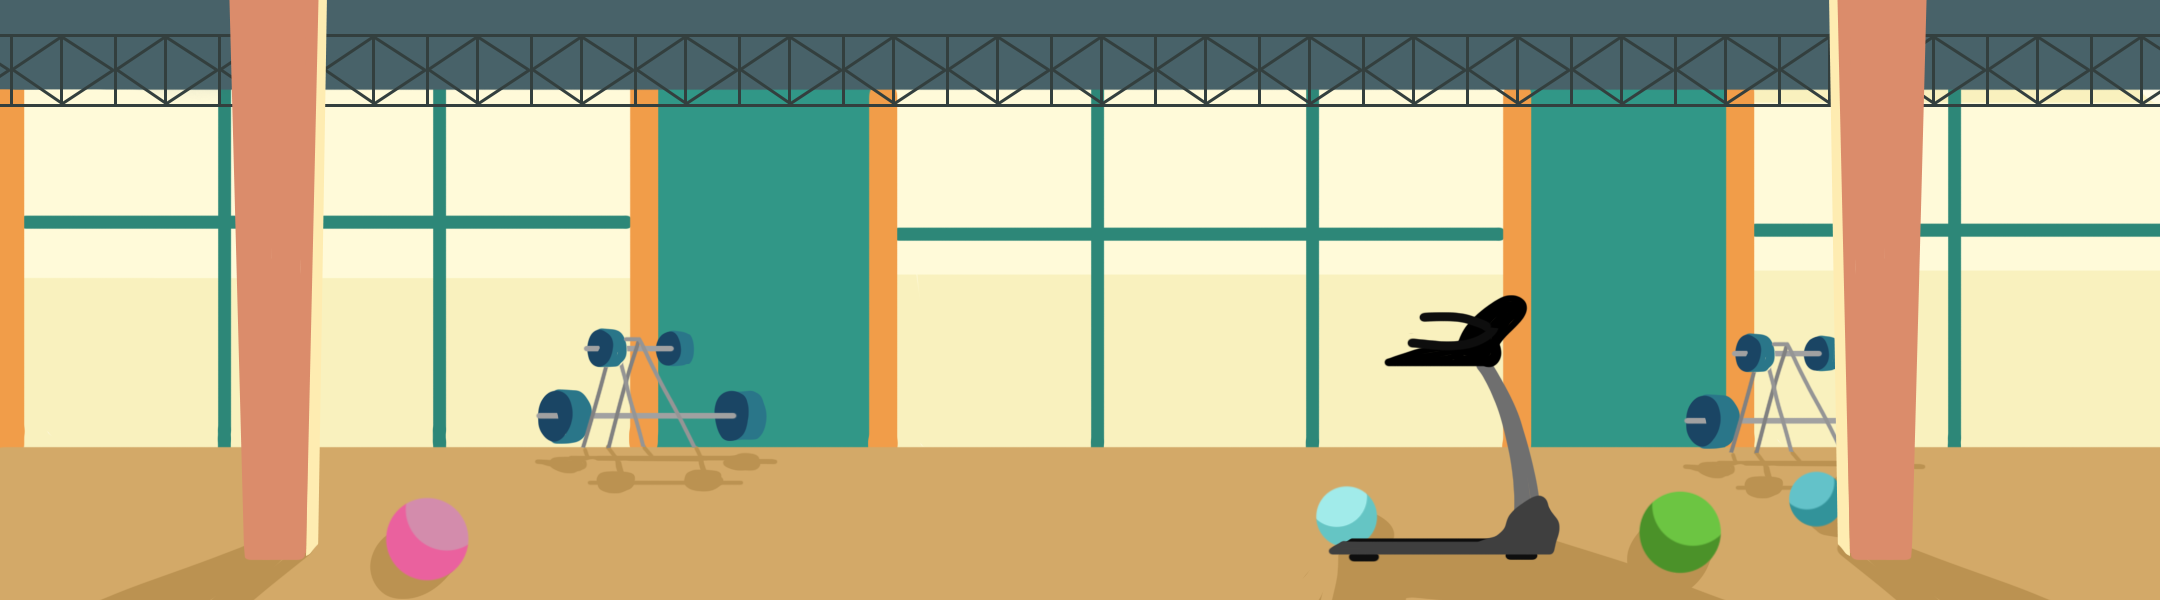
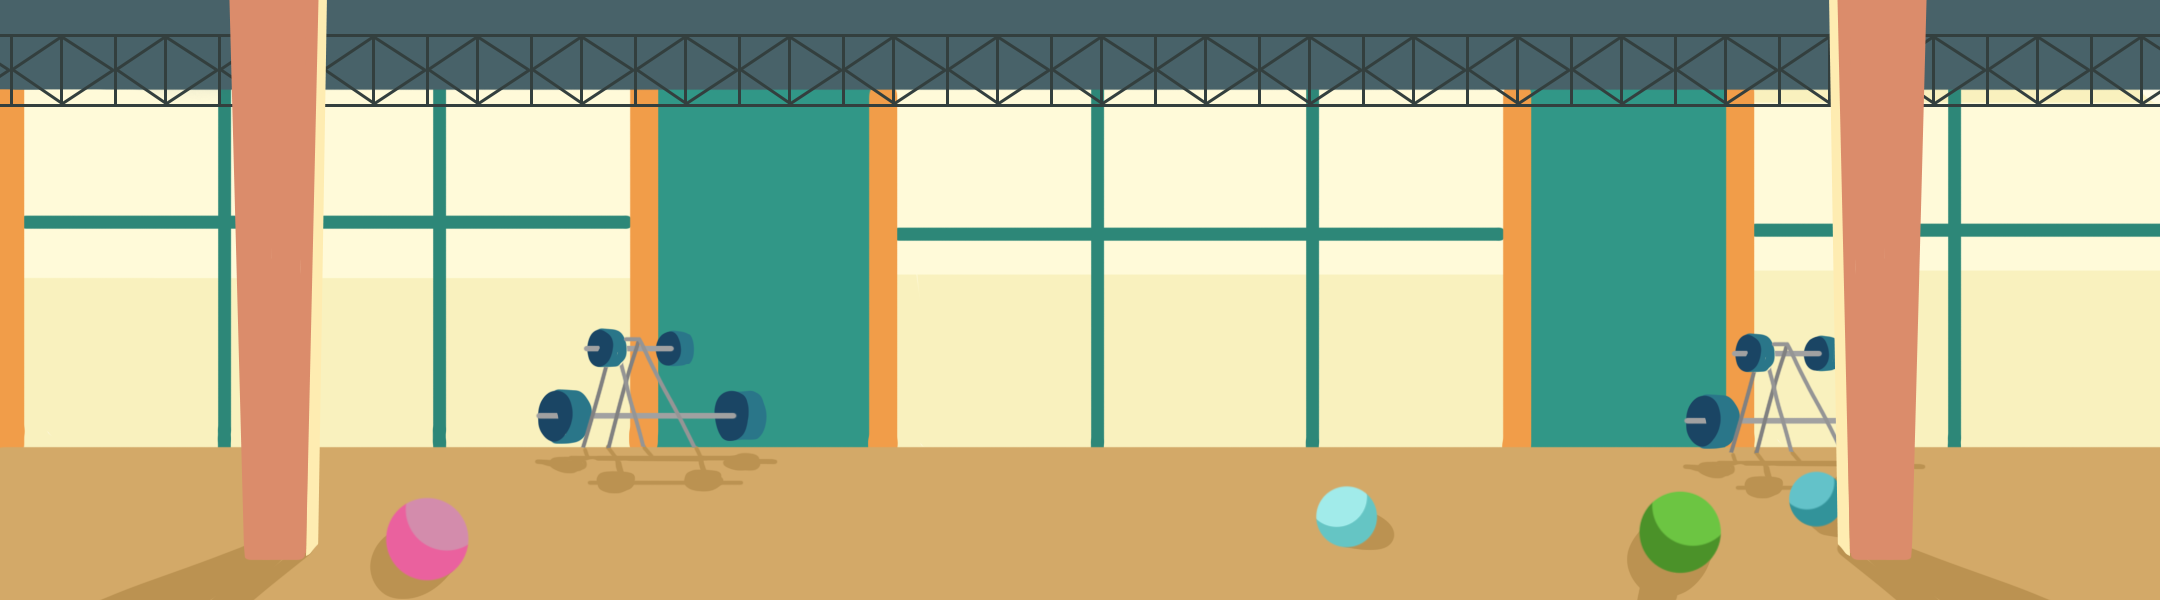
Segundo nivel; Se ha modificado el portal de los niveles; La cinta de correr ahora es un sprite aparte; Se ha cambiado el fondo del gimnasio; Se han metido plataformas en el segundo nivel;

Changed region(s): [[0.6204, 0.48, 0.7444, 0.96]]

diff --git a/Game/src/scenes/scene_play.js b/Game/src/scenes/scene_play.js
@@ -79,12 +79,13 @@ class Scene_play extends Phaser.Scene {
 
 
         //se ha modificado la posición de la colisión de la cinta para moverla junto a un sprite
-        let cintaU = this.physics.add.image(900+ 1180 * this.escenarios[0].pos, 311, "logo") //esta no es la oficial, es para pasar más rápido al siguiente nivel
-        //let cintaU = this.physics.add.image(1030+ 1180 * this.escenarios[0].pos, 77, "logo")
-        cintaU.displayHeight = 95;
-        cintaU.displayWidth = 50;
-        cintaU.setImmovable(true)
-        cintaU.alpha = 0;
+        //let cintaU = this.physics.add.image(900+ 1180 * this.escenarios[0].pos, 311, "cintaSprite") //esta no es la oficial, es para pasar más rápido al siguiente nivel
+        let cintaU = this.physics.add.image(1030+ 1180 * this.escenarios[0].pos, 89, "cintaSprite")
+        //cintaU.displayHeight = 97;
+        //cintaU.displayWidth = 80;
+        cintaU.setScale(0.30);
+        cintaU.setImmovable(true);
+        
 
         let groupCintaU = this.add.group()
         groupCintaU.add(cintaU);
@@ -104,11 +105,9 @@ class Scene_play extends Phaser.Scene {
         this.blurGD.alpha = 0;
 
         //se ha modificado la posición de la colisión de la cinta para junto a un sprite
-        let cintaD = this.physics.add.image(900+ 1180 * this.escenarios[0].pos, 671, "logo") //no oficial
+        let cintaD = this.physics.add.image(1030+ 1180 * this.escenarios[0].pos, 449, "cintaSprite") //no oficial
         //let cintaD = this.physics.add.image(this.game.canvas.width * 0.68 + 1180 * this.escenarios[0].pos, this.game.canvas.height * 0.84, "logo")
-        cintaD.displayHeight = this.game.canvas.height * 0.3;
-        cintaD.displayWidth = this.game.canvas.width * 0.13;
-        cintaD.alpha = 0;
+        cintaD.setScale(0.30);
 
         //Plataformas jugador 1
         let p1_1_1=this.physics.add.image(100,this.game.canvas.height*0.42, "gymplatform").setImmovable(true);
@@ -302,6 +301,27 @@ class Scene_play extends Phaser.Scene {
         this.escBU2.displayWidth = this.game.canvas.width;
         this.escBU2.alpha = 0;
 
+        
+        //Parte jugador 2
+
+        let escD2 = this.add.image(0 + 1180 * this.escenarios[1].pos, this.game.canvas.height / 2, "Contador").setOrigin(0, 0);
+
+        escD2.displayHeight = this.game.canvas.height / 2;
+        escD2.displayWidth = this.game.canvas.width;
+
+        let pruebaContador2 = this.physics.add.image(this.game.canvas.width * 0.85 + 1180 * this.escenarios[1].pos, this.game.canvas.height / 2 * 0.68 + this.game.canvas.height / 2, "logo").setOrigin(0, 0);
+        pruebaContador2.displayHeight = this.game.canvas.height * 0.1;
+        pruebaContador2.displayWidth = this.game.canvas.width * 0.08;
+        pruebaContador2.setImmovable(true)
+        pruebaContador2.alpha = 0;
+
+        this.escBU22 = this.add.image(0 + 1180 * this.escenarios[1].pos, this.game.canvas.height / 2, "ContadorBlur").setOrigin(0, 0)
+
+        this.escBU22.displayHeight = this.game.canvas.height / 2;
+        this.escBU22.displayWidth = this.game.canvas.width;
+        this.escBU22.alpha = 0;
+
+
         //Plataformas jugador 1
         let p1_2_1=this.physics.add.image( 100 + 1180 * this.escenarios[1].pos,this.game.canvas.height*0.42, "gymplatform").setImmovable(true);
         p1_2_1.displayHeight=20;
@@ -354,6 +374,35 @@ class Scene_play extends Phaser.Scene {
         let p1_2_5=this.physics.add.image( 390 + 1180 * this.escenarios[1].pos,100, "gymplatform").setImmovable(true);
         p1_2_5.displayHeight=20;
         p1_2_5.displayWidth=80;
+
+        let p1_2_6=this.physics.add.image( 490 + 1180 * this.escenarios[1].pos,100, "gymplatform").setImmovable(true);
+        p1_2_6.displayHeight=20;
+        p1_2_6.displayWidth=80;
+
+        this.tweens.timeline({
+            targets: p1_2_6.body.velocity,
+            loop: -1,
+            tweens: [
+                {y: 40, duration: 2500, ease: 'Stepped'},
+                {y: -40, duration: 2500, ease:'Stepped'}
+                            
+            ]
+          });
+
+        let p1_2_7=this.physics.add.image( 610 + 1180 * this.escenarios[1].pos,200, "gymplatform").setImmovable(true);
+        p1_2_7.displayHeight=20;
+        p1_2_7.displayWidth=80;
+
+        //muro para que no se entre en contador directamente
+        let notCheating=this.physics.add.image( 800 + 1180 * this.escenarios[1].pos,235, "gymplatform").setImmovable(true);
+        notCheating.displayHeight=250;
+        notCheating.displayWidth=20;
+        notCheating.alpha=0;
+        
+        let p1_2_8=this.physics.add.image( 720 + 1180 * this.escenarios[1].pos,150, "gymplatform").setImmovable(true);
+        p1_2_8.displayHeight=20;
+        p1_2_8.displayWidth=80;
+
         
 
         let grupoP1_cont=this.add.group();
@@ -367,31 +416,117 @@ class Scene_play extends Phaser.Scene {
           }, 2500);
         grupoP1_cont.add(p1_2_4);
         grupoP1_cont.add(p1_2_5);
+        grupoP1_cont.add(p1_2_6);
+        grupoP1_cont.add(p1_2_7);
+        var intermitence=setInterval(()=>{
+            p1_2_7.alpha=p1_2_7.alpha==1?0:1;
+            p1_2_7.alpha==1?grupoP1_cont.add(p1_2_7):grupoP1_cont.remove(p1_2_7);           
+          }, 2000);
+        grupoP1_cont.add(notCheating);
+        grupoP1_cont.add(p1_2_8);
 
+        //Plataformas jugador 2
+        let p2_2_1=this.physics.add.image( 100 + 1180 * this.escenarios[1].pos,this.game.canvas.height*0.42+360, "gymplatform").setImmovable(true);
+        p2_2_1.displayHeight=20;
+        p2_2_1.displayWidth=80;
+        p2_2_1.alpha=0;
+
+        this.tweens.timeline({
+            targets: p2_2_1.body.velocity,
+            loop: -1,
+            tweens: [
+                {x: 60, duration: 2000, ease: 'Stepped'},
+                {x:-60, duration: 2000, ease:'Stepped'}
+                            
+            ]
+          });
+
+        let p2_2_2=this.physics.add.image( 275 + 1180 * this.escenarios[1].pos,570, "gymplatform").setImmovable(true);
+        p2_2_2.displayHeight=20;
+        p2_2_2.displayWidth=80;
+        p2_2_2.alpha=0;
+
+        this.tweens.timeline({
+            targets: p2_2_2.body.velocity,
+            loop: -1,
+            tweens: [
+                {x: -80, duration: 1200, ease: 'Stepped'},
+                {x: 80, duration: 1200, ease:'Stepped'}
+                            
+            ]
+          });
+
+        let p2_2_3=this.physics.add.image( 75 + 1180 * this.escenarios[1].pos,510, "gymplatform").setImmovable(true);
+        p2_2_3.displayHeight=20;
+        p2_2_3.displayWidth=80;
+
+        let p2_2_4=this.physics.add.image( 200 + 1180 * this.escenarios[1].pos,460, "gymplatform").setImmovable(true);
+        p2_2_4.displayHeight=20;
+        p2_2_4.displayWidth=80;
+
+        this.tweens.timeline({
+            targets: p2_2_4.body.velocity,
+            loop: -1,
+            tweens: [
+                {x: 70, duration: 1200, ease: 'Stepped'},
+                {x: -70, duration: 1200, ease:'Stepped'}
+                            
+            ]
+          });
+
+        let p2_2_5=this.physics.add.image( 390 + 1180 * this.escenarios[1].pos,460, "gymplatform").setImmovable(true);
+        p2_2_5.displayHeight=20;
+        p2_2_5.displayWidth=80;
+
+        let p2_2_6=this.physics.add.image( 490 + 1180 * this.escenarios[1].pos,460, "gymplatform").setImmovable(true);
+        p2_2_6.displayHeight=20;
+        p2_2_6.displayWidth=80;
+
+        this.tweens.timeline({
+            targets: p2_2_6.body.velocity,
+            loop: -1,
+            tweens: [
+                {y: 40, duration: 2500, ease: 'Stepped'},
+                {y: -40, duration: 2500, ease:'Stepped'}
+                            
+            ]
+          });
+
+        let p2_2_7=this.physics.add.image( 610 + 1180 * this.escenarios[1].pos,560, "gymplatform").setImmovable(true);
+        p2_2_7.displayHeight=20;
+        p2_2_7.displayWidth=80;
+
+        //muro para que no se entre en contador directamente
+        let notCheating2=this.physics.add.image( 800 + 1180 * this.escenarios[1].pos,595, "gymplatform").setImmovable(true);
+        notCheating2.displayHeight=250;
+        notCheating2.displayWidth=20;
+        notCheating2.alpha=0;
+        
+        let p2_2_8=this.physics.add.image( 720 + 1180 * this.escenarios[1].pos,510, "gymplatform").setImmovable(true);
+        p2_2_8.displayHeight=20;
+        p2_2_8.displayWidth=80;
 
         
 
-
-
-
-        //Parte jugador 2
-
-        let escD2 = this.add.image(0 + 1180 * this.escenarios[1].pos, this.game.canvas.height / 2, "Contador").setOrigin(0, 0);
-
-        escD2.displayHeight = this.game.canvas.height / 2;
-        escD2.displayWidth = this.game.canvas.width;
-
-        let pruebaContador2 = this.physics.add.image(this.game.canvas.width * 0.85 + 1180 * this.escenarios[1].pos, this.game.canvas.height / 2 * 0.68 + this.game.canvas.height / 2, "logo").setOrigin(0, 0);
-        pruebaContador2.displayHeight = this.game.canvas.height * 0.1;
-        pruebaContador2.displayWidth = this.game.canvas.width * 0.08;
-        pruebaContador2.setImmovable(true)
-        pruebaContador2.alpha = 0;
-
-        this.escBU22 = this.add.image(0 + 1180 * this.escenarios[1].pos, this.game.canvas.height / 2, "ContadorBlur").setOrigin(0, 0)
-
-        this.escBU22.displayHeight = this.game.canvas.height / 2;
-        this.escBU22.displayWidth = this.game.canvas.width;
-        this.escBU22.alpha = 0;
+        let grupoP2_cont=this.add.group();
+        grupoP2_cont.add(p2_2_1);
+        grupoP2_cont.add(p2_2_2);
+        grupoP2_cont.add(p2_2_3);
+        //plataforma 3 desaparece
+        var intermitence=setInterval(()=>{
+            p2_2_3.alpha=p2_2_3.alpha==1?0:1;
+            p2_2_3.alpha==1?grupoP2_cont.add(p2_2_3):grupoP2_cont.remove(p2_2_3);           
+          }, 2500);
+        grupoP2_cont.add(p2_2_4);
+        grupoP2_cont.add(p2_2_5);
+        grupoP2_cont.add(p2_2_6);
+        grupoP2_cont.add(p2_2_7);
+        var intermitence=setInterval(()=>{
+            p2_2_7.alpha=p2_2_7.alpha==1?0:1;
+            p2_2_7.alpha==1?grupoP2_cont.add(p2_2_7):grupoP2_cont.remove(p2_2_7);           
+          }, 2000);
+        grupoP2_cont.add(notCheating2);
+        grupoP2_cont.add(p2_2_8);
 
 
         //Escenario 3 Nieve
@@ -543,7 +678,7 @@ class Scene_play extends Phaser.Scene {
         this.cam1.setBounds(0, 0, this.game.canvas.width, this.game.canvas.height / 2)
         //Para que persiga al pj
         this.cam1.startFollow(this.playerU, true);
-        this.cam1.setZoom(1)
+        this.cam1.setZoom(2.1)
 
 
         this.cam2 = this.cameras.add(0, this.game.canvas.height / 2, this.game.canvas.width, this.game.canvas.height / 2).setName('Camara 2');
@@ -553,7 +688,7 @@ class Scene_play extends Phaser.Scene {
 
         this.cam2.startFollow(this.playerD, true);
 
-        this.cam2.setZoom(2.5)
+        this.cam2.setZoom(1)
 
 
 
@@ -573,6 +708,8 @@ class Scene_play extends Phaser.Scene {
 
         //Colisión plataformas contador
         this.physics.add.collider(this.playerU, grupoP1_cont);
+        this.physics.add.collider(this.playerD, grupoP2_cont);
+
 
         //this.ventana1 = this.physics.add.overlap(this.playerU, groupCintaU, () => { this.PruebaU(0) }, null, this);
         this.ventana1 = this.physics.add.overlap(this.playerU, groupCintaU, () => { this.Prueba(this.playerU) }, null, this);
@@ -819,20 +956,27 @@ class Scene_play extends Phaser.Scene {
     }
 
     crearPortalGimnasioP1() {
+        let spritePortal=this.add.sprite(this.game.canvas.width * 0.94 + 1180 * this.escenarios[0].pos, this.game.canvas.height * 0.34, "portal");
+        spritePortal.play("portalAnim");
+        spritePortal.setScale(0.5);
         this.portal = this.physics.add.image(this.game.canvas.width * 0.94 + 1180 * this.escenarios[0].pos, this.game.canvas.height * 0.34, "logo")
-        this.portal.displayHeight = this.game.canvas.height * 0.1;
-        this.portal.displayWidth = this.game.canvas.width * 0.08;
-        this.portal.alpha = 1;
+        this.portal.displayHeight = 155; //spritePortal.height x 0.5
+        this.portal.displayWidth = 84; //spritePortal.width x 0.5
+        this.portal.alpha = 0;
+        
 
         this.physics.add.overlap(this.playerU, this.portal, () => { this.teletransporte(this.playerU, this.escenarios[0].pos, this.cam1) }, null, this);
 
     }
 
     crearPortalPulsadorP1() {
+        let spritePortal=this.add.sprite(this.game.canvas.width * 0.94 + 1180 * this.escenarios[1].pos, this.game.canvas.height * 0.34, "portal");
+        spritePortal.play("portalAnim");
+        spritePortal.setScale(0.5);
         this.portal = this.physics.add.image(this.game.canvas.width * 0.94 + 1180 * this.escenarios[1].pos, this.game.canvas.height * 0.34, "logo")
-        this.portal.displayHeight = this.game.canvas.height * 0.1;
-        this.portal.displayWidth = this.game.canvas.width * 0.08;
-        this.portal.alpha = 1;
+        this.portal.displayHeight = 155; //spritePortal.height x 0.5
+        this.portal.displayWidth = 84; //spritePortal.width x 0.5
+        this.portal.alpha = 0;
 
         this.physics.add.overlap(this.playerU, this.portal, () => { this.teletransporte(this.playerU, this.escenarios[1].pos, this.cam1) }, null, this);
 
@@ -843,20 +987,24 @@ class Scene_play extends Phaser.Scene {
 
 
     crearPortalGimnasioP2() {
-
+        let spritePortal2=this.add.sprite(this.game.canvas.width * 0.94 + 1180 * this.escenarios[0].pos, this.game.canvas.height * 0.84, "portal");
+        spritePortal2.play("portalAnim");
+        spritePortal2.setScale(0.5);
         this.portalD = this.physics.add.image(this.game.canvas.width * 0.94 + 1180 * this.escenarios[0].pos, this.game.canvas.height * 0.84, "logo")
-        this.portalD.displayHeight = this.game.canvas.height * 0.1;
-        this.portalD.displayWidth = this.game.canvas.width * 0.08;
+        this.portalD.displayHeight = 155; //spritePortal.height x 0.5
+        this.portalD.displayWidth = 84; //spritePortal.width x 0.5
         this.portalD.alpha = 0;
         this.physics.add.overlap(this.playerD, this.portalD, () => { this.teletransporteD(this.playerD, this.escenarios[0].pos, this.cam2) }, null, this); console.log(this.portal)
     }
 
 
     crearPortalPulsadorP2() {
-
+        let spritePortal2=this.add.sprite(this.game.canvas.width * 0.94 + 1180 * this.escenarios[0].pos, this.game.canvas.height * 0.84, "portal");
+        spritePortal2.play("portalAnim");
+        spritePortal2.setScale(0.5);
         this.portalD = this.physics.add.image(this.game.canvas.width * 0.94 + 1180 * this.escenarios[1].pos, this.game.canvas.height * 0.84, "logo")
-        this.portalD.displayHeight = this.game.canvas.height * 0.1;
-        this.portalD.displayWidth = this.game.canvas.width * 0.08;
+        this.portalD.displayHeight = 155; //spritePortal.height x 0.5
+        this.portalD.displayWidth = 84; //spritePortal.width x 0.5
         this.portalD.alpha = 0;
         this.physics.add.overlap(this.playerD, this.portalD, () => { this.teletransporteD(this.playerD, this.escenarios[1].pos, this.cam2) }, null, this); console.log(this.portal)
     }

diff --git a/Game/src/bootloader.js b/Game/src/bootloader.js
@@ -21,6 +21,7 @@ class Bootloader extends Phaser.Scene {
         this.load.image("GimnasioBlur","./assets/GimnasioBlur.png")
         this.load.spritesheet("CintaCorrer","./assets/CintaAnimada.jpg",{frameWidth:500,frameHeight:600});
         this.load.image("gymplatform", "./assets/GymPlat.png");
+        this.load.image("cintaSprite", "./assets/CintaSprite.png");
 
         
         //Contador//
@@ -39,12 +40,10 @@ class Bootloader extends Phaser.Scene {
         this.load.image("Electricidad", "./assets/NivelElectricidad.png");
 
         //Menu//
-        //this.load.image("playButton","./assets/playButton.png");
         this.load.image("menu","./assets/MainMenu.jpg");
         this.load.spritesheet("FlagSheet2", "./assets/FlagSheet2.png", {frameWidth:450,frameHeight:300}); //banderas
         this.load.spritesheet("Play", "./assets/Play.png", {frameWidth:792,frameHeight:410}); //botón de play
         this.load.spritesheet("Mute", "./assets/SpriteSheetSound.png", {frameWidth:300, frameHeight:300}); //botón sonido
-        //Comentario de prueba para las branches desde visual
 
         //Otros//
         
@@ -68,6 +67,7 @@ class Bootloader extends Phaser.Scene {
         //Animaciones//
        this.load.atlas("P1","./assets/RunP1.png","./assets/RunP1.json")
        this.load.atlas("P2","./assets/RunP2.png","./assets/RunP2.json")
+       this.load.spritesheet("portal", "./assets/SpriteSheetPortal.png", {frameWidth:168, frameHeight:310});
         
         
         
@@ -388,6 +388,14 @@ class Bootloader extends Phaser.Scene {
             repeat: -1,
             frameRate: 6
             
+        })
+
+        //portal
+        this.anims.create({
+            key: 'portalAnim',
+            frames: this.anims.generateFrameNumbers("portal", {frames:[0,1,2,3,4,5,6,7,8]}),
+            repeat: -1,
+            frameRate: 6
         })
         
 
